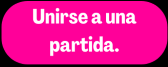
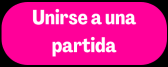
Botones
Modificaciones a los botones

diff --git a/Patolli_gui/src/menu.java b/Patolli_gui/src/menu.java
@@ -55,7 +55,7 @@ public class menu extends javax.swing.JFrame {
         });
         getContentPane().add(btnUnirsePartida, new org.netbeans.lib.awtextra.AbsoluteConstraints(320, 230, 170, 80));
 
-        jLabel1.setIcon(new javax.swing.ImageIcon(getClass().getResource("/imagenes/Patolli_Fondoo.png"))); // NOI18N
+        jLabel1.setIcon(new javax.swing.ImageIcon(getClass().getResource("/imagenes/patolli_Fondo.png"))); // NOI18N
         getContentPane().add(jLabel1, new org.netbeans.lib.awtextra.AbsoluteConstraints(0, 0, 800, 400));
 
         pack();
